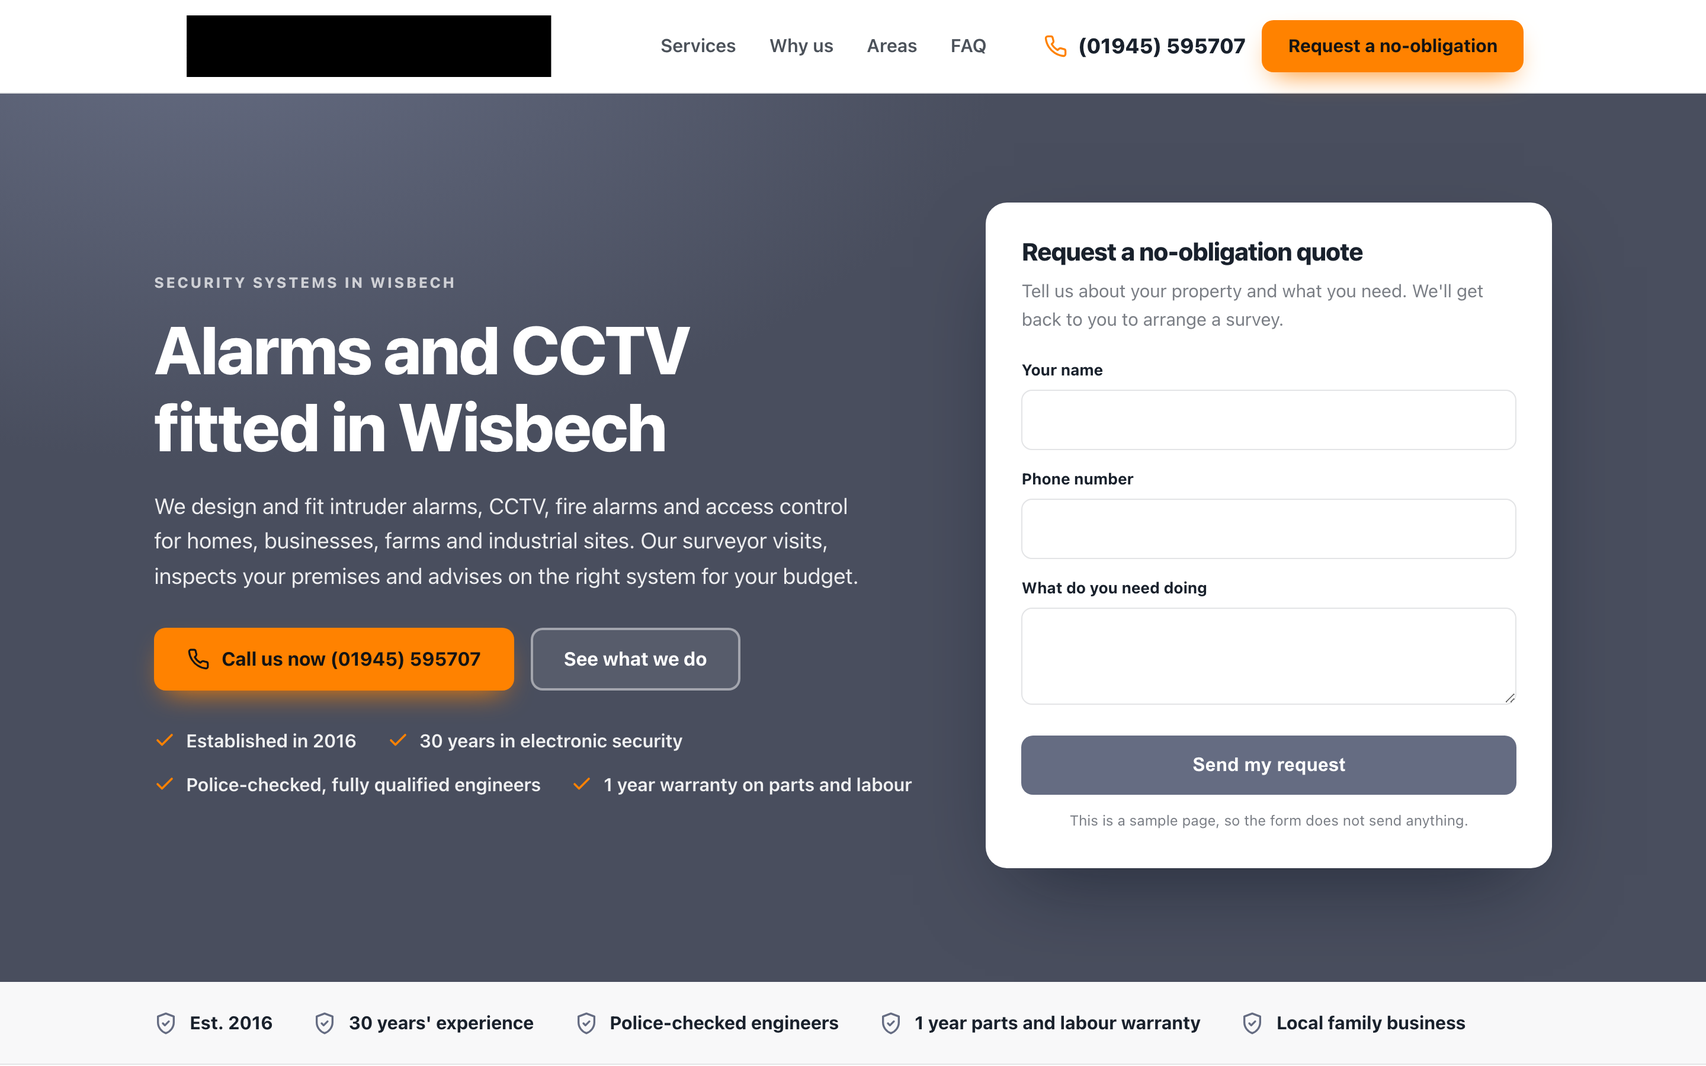
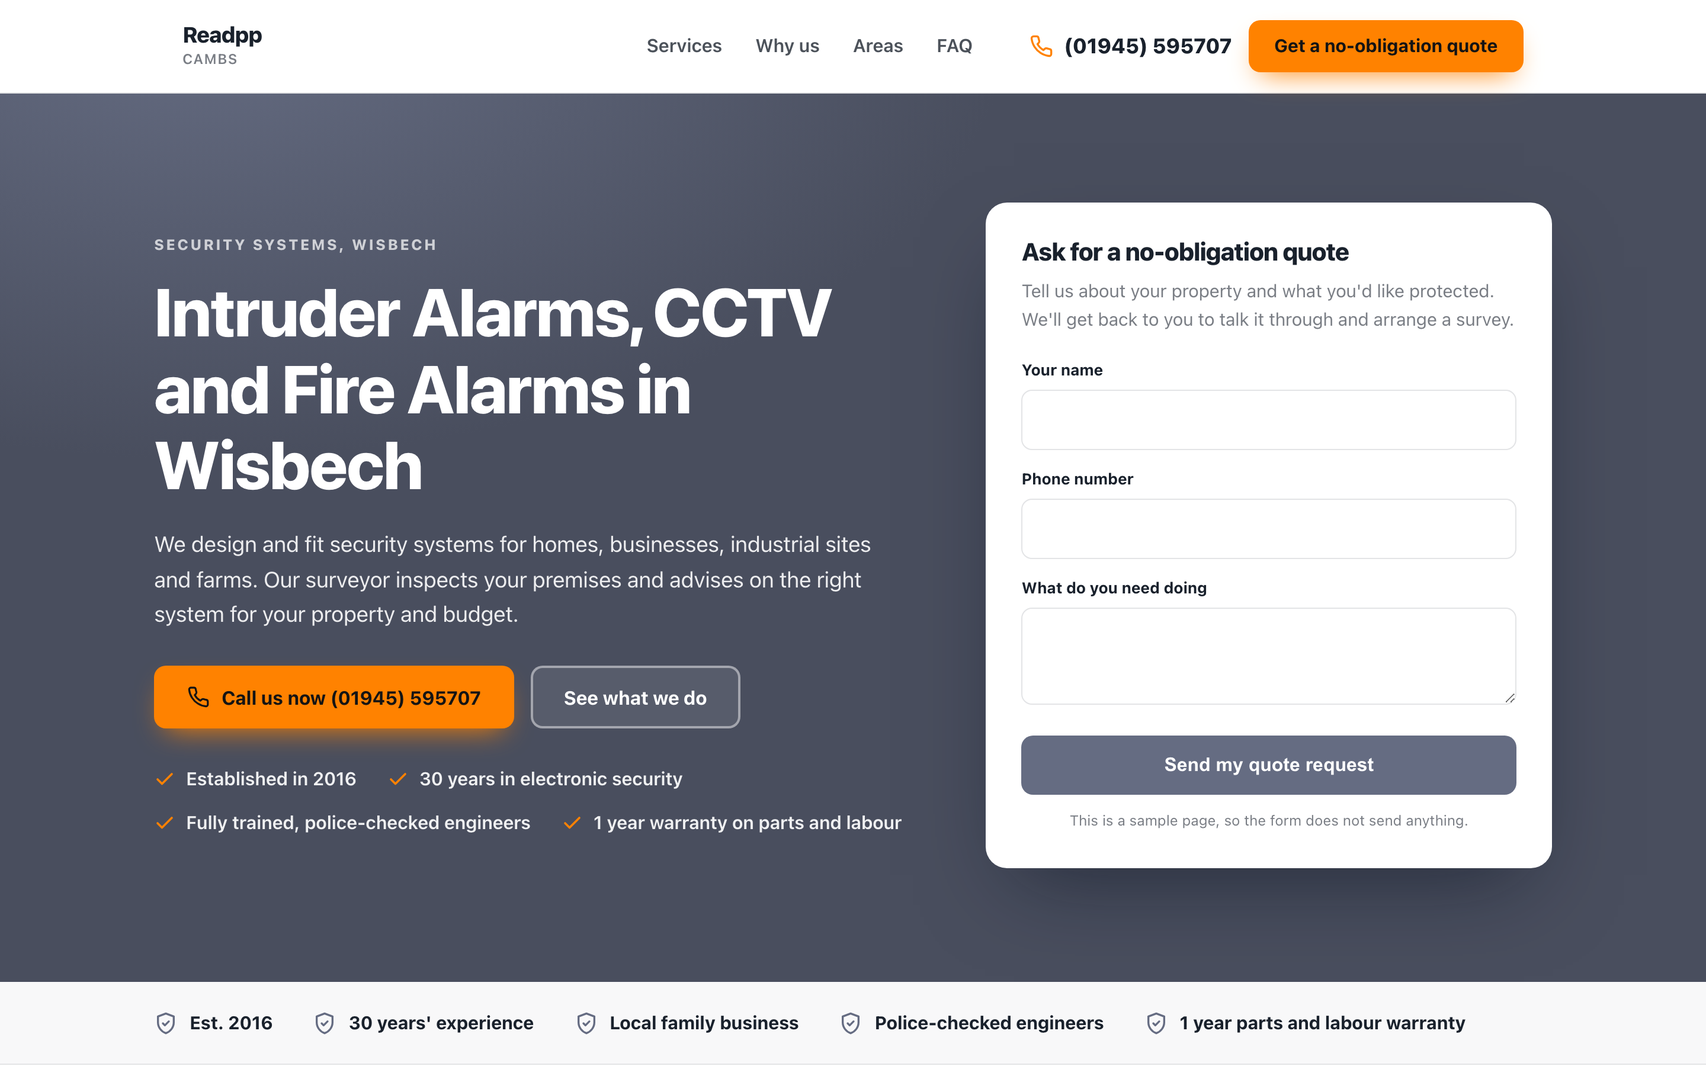
One page sample for Readpp

diff --git a/docs/7d1f97f49b/index.html b/docs/7d1f97f49b/index.html
@@ -4,14 +4,14 @@
 <meta charset="utf-8">
 <meta name="viewport" content="width=device-width, initial-scale=1">
 <meta name="robots" content="noindex,nofollow">
-<meta name="aso-build" content="ba05bd9cdd72">
-<title>Security Alarms &amp; CCTV Wisbech | Read Premises Protection</title>
-<meta name="description" content="Intruder alarms, CCTV, fire alarms and access control in Wisbech. Police-checked engineers and a no-obligation survey and quote.">
+<meta name="aso-build" content="3659cd5758ca">
+<title>Security Alarms &amp; CCTV in Wisbech | Read Premises Protection</title>
+<meta name="description" content="Intruder alarms, CCTV, access control and fire alarms fitted in Wisbech and East Anglia. Police-checked engineers and a 1 year parts and labour warranty.">
 <link rel="canonical" href="https://markygff.github.io/aso-mockups/7d1f97f49b/">
 <meta property="og:type" content="website">
 <meta property="og:site_name" content="Readpp">
-<meta property="og:title" content="Security Alarms &amp; CCTV Wisbech | Read Premises Protection">
-<meta property="og:description" content="Intruder alarms, CCTV, fire alarms and access control in Wisbech. Police-checked engineers and a no-obligation survey and quote.">
+<meta property="og:title" content="Security Alarms &amp; CCTV in Wisbech | Read Premises Protection">
+<meta property="og:description" content="Intruder alarms, CCTV, access control and fire alarms fitted in Wisbech and East Anglia. Police-checked engineers and a 1 year parts and labour warranty.">
 <meta property="og:url" content="https://markygff.github.io/aso-mockups/7d1f97f49b/">
 <meta name="twitter:card" content="summary_large_image">
 <style>
@@ -268,7 +268,10 @@ p{margin:0}
 <header class="header">
   <div class="wrap header-in">
     <div class="brand">
-<img src="img/logo.png" alt="Readpp logo">    </div>
+      <div>
+        <div class="brand-name">Readpp</div>
+<div class="brand-sub">Cambs</div>      </div>
+    </div>
     <nav class="nav">
       <a href="#services">Services</a>
       <a href="#why">Why us</a>
@@ -278,7 +281,7 @@ p{margin:0}
       <a class="tel" href="tel:+441945595707">
         <svg viewBox="0 0 24 24" fill="none" stroke="currentColor" stroke-width="2" stroke-linecap="round" stroke-linejoin="round" aria-hidden="true"><path d="M22 16.9v3a2 2 0 0 1-2.2 2 19.8 19.8 0 0 1-8.6-3.1 19.5 19.5 0 0 1-6-6 19.8 19.8 0 0 1-3.1-8.7A2 2 0 0 1 4.1 2h3a2 2 0 0 1 2 1.7c.1 1 .4 1.9.7 2.8a2 2 0 0 1-.5 2.1L8.1 9.9a16 16 0 0 0 6 6l1.3-1.2a2 2 0 0 1 2.1-.5c.9.3 1.8.6 2.8.7a2 2 0 0 1 1.7 2z"/></svg><span>(01945) 595707</span>
       </a>
-      <a class="btn btn-accent" href="#quote">Request a no-obligation</a>
+      <a class="btn btn-accent" href="#quote">Get a no-obligation quote</a>
     </div>
   </div>
 </header>
@@ -287,19 +290,19 @@ p{margin:0}
   <div class="hero-plain"></div>
   <div class="wrap hero-in">
     <div>
-      <p class="eyebrow">Security systems in Wisbech</p>
-      <h1>Alarms and CCTV fitted in Wisbech</h1>
-      <p class="hero-sub">We design and fit intruder alarms, CCTV, fire alarms and access control for homes, businesses, farms and industrial sites. Our surveyor visits, inspects your premises and advises on the right system for your budget.</p>
+      <p class="eyebrow">Security systems, Wisbech</p>
+      <h1>Intruder Alarms, CCTV and Fire Alarms in Wisbech</h1>
+      <p class="hero-sub">We design and fit security systems for homes, businesses, industrial sites and farms. Our surveyor inspects your premises and advises on the right system for your property and budget.</p>
       <div class="hero-actions">
         <a class="btn btn-accent" href="tel:+441945595707"><svg viewBox="0 0 24 24" fill="none" stroke="currentColor" stroke-width="2" stroke-linecap="round" stroke-linejoin="round" aria-hidden="true"><path d="M22 16.9v3a2 2 0 0 1-2.2 2 19.8 19.8 0 0 1-8.6-3.1 19.5 19.5 0 0 1-6-6 19.8 19.8 0 0 1-3.1-8.7A2 2 0 0 1 4.1 2h3a2 2 0 0 1 2 1.7c.1 1 .4 1.9.7 2.8a2 2 0 0 1-.5 2.1L8.1 9.9a16 16 0 0 0 6 6l1.3-1.2a2 2 0 0 1 2.1-.5c.9.3 1.8.6 2.8.7a2 2 0 0 1 1.7 2z"/></svg>Call us now (01945) 595707</a>
         <a class="btn btn-ghost" href="#services">See what we do</a>
       </div>
       <ul class="hero-bullets">
-<li><svg viewBox="0 0 24 24" fill="none" stroke="currentColor" stroke-width="2.4" stroke-linecap="round" stroke-linejoin="round" aria-hidden="true"><path d="M20 6 9 17l-5-5"/></svg><span>Established in 2016</span></li><li><svg viewBox="0 0 24 24" fill="none" stroke="currentColor" stroke-width="2.4" stroke-linecap="round" stroke-linejoin="round" aria-hidden="true"><path d="M20 6 9 17l-5-5"/></svg><span>30 years in electronic security</span></li><li><svg viewBox="0 0 24 24" fill="none" stroke="currentColor" stroke-width="2.4" stroke-linecap="round" stroke-linejoin="round" aria-hidden="true"><path d="M20 6 9 17l-5-5"/></svg><span>Police-checked, fully qualified engineers</span></li><li><svg viewBox="0 0 24 24" fill="none" stroke="currentColor" stroke-width="2.4" stroke-linecap="round" stroke-linejoin="round" aria-hidden="true"><path d="M20 6 9 17l-5-5"/></svg><span>1 year warranty on parts and labour</span></li>      </ul>
+<li><svg viewBox="0 0 24 24" fill="none" stroke="currentColor" stroke-width="2.4" stroke-linecap="round" stroke-linejoin="round" aria-hidden="true"><path d="M20 6 9 17l-5-5"/></svg><span>Established in 2016</span></li><li><svg viewBox="0 0 24 24" fill="none" stroke="currentColor" stroke-width="2.4" stroke-linecap="round" stroke-linejoin="round" aria-hidden="true"><path d="M20 6 9 17l-5-5"/></svg><span>30 years in electronic security</span></li><li><svg viewBox="0 0 24 24" fill="none" stroke="currentColor" stroke-width="2.4" stroke-linecap="round" stroke-linejoin="round" aria-hidden="true"><path d="M20 6 9 17l-5-5"/></svg><span>Fully trained, police-checked engineers</span></li><li><svg viewBox="0 0 24 24" fill="none" stroke="currentColor" stroke-width="2.4" stroke-linecap="round" stroke-linejoin="round" aria-hidden="true"><path d="M20 6 9 17l-5-5"/></svg><span>1 year warranty on parts and labour</span></li>      </ul>
     </div>
     <div class="quote-card" id="quote">
-      <h3>Request a no-obligation quote</h3>
-      <p class="lead">Tell us about your property and what you need. We&#39;ll get back to you to arrange a survey.</p>
+      <h3>Ask for a no-obligation quote</h3>
+      <p class="lead">Tell us about your property and what you&#39;d like protected. We&#39;ll get back to you to talk it through and arrange a survey.</p>
       <form action="#" onsubmit="return false" novalidate>
         <div class="field"><label for="h-name">Your name</label>
           <input id="h-name" name="name" type="text" autocomplete="name"></div>
@@ -307,7 +310,7 @@ p{margin:0}
           <input id="h-phone" name="phone" type="tel" autocomplete="tel"></div>
         <div class="field"><label for="h-job">What do you need doing</label>
           <textarea id="h-job" name="job"></textarea></div>
-        <button class="btn btn-primary" type="button">Send my request</button>
+        <button class="btn btn-primary" type="button">Send my quote request</button>
       </form>
       <p class="sample-note">This is a sample page, so the form does not send anything.</p>
     </div>
@@ -318,9 +321,9 @@ p{margin:0}
   <div class="wrap trust-in">
     <div class="trust-item"><svg viewBox="0 0 24 24" fill="none" stroke="currentColor" stroke-width="2" stroke-linecap="round" stroke-linejoin="round" aria-hidden="true"><path d="M12 2 4 5v6c0 5 3.4 9.4 8 11 4.6-1.6 8-6 8-11V5z"/><path d="m9 12 2 2 4-4"/></svg><span>Est. 2016</span></div>
     <div class="trust-item"><svg viewBox="0 0 24 24" fill="none" stroke="currentColor" stroke-width="2" stroke-linecap="round" stroke-linejoin="round" aria-hidden="true"><path d="M12 2 4 5v6c0 5 3.4 9.4 8 11 4.6-1.6 8-6 8-11V5z"/><path d="m9 12 2 2 4-4"/></svg><span>30 years&#39; experience</span></div>
+    <div class="trust-item"><svg viewBox="0 0 24 24" fill="none" stroke="currentColor" stroke-width="2" stroke-linecap="round" stroke-linejoin="round" aria-hidden="true"><path d="M12 2 4 5v6c0 5 3.4 9.4 8 11 4.6-1.6 8-6 8-11V5z"/><path d="m9 12 2 2 4-4"/></svg><span>Local family business</span></div>
     <div class="trust-item"><svg viewBox="0 0 24 24" fill="none" stroke="currentColor" stroke-width="2" stroke-linecap="round" stroke-linejoin="round" aria-hidden="true"><path d="M12 2 4 5v6c0 5 3.4 9.4 8 11 4.6-1.6 8-6 8-11V5z"/><path d="m9 12 2 2 4-4"/></svg><span>Police-checked engineers</span></div>
     <div class="trust-item"><svg viewBox="0 0 24 24" fill="none" stroke="currentColor" stroke-width="2" stroke-linecap="round" stroke-linejoin="round" aria-hidden="true"><path d="M12 2 4 5v6c0 5 3.4 9.4 8 11 4.6-1.6 8-6 8-11V5z"/><path d="m9 12 2 2 4-4"/></svg><span>1 year parts and labour warranty</span></div>
-    <div class="trust-item"><svg viewBox="0 0 24 24" fill="none" stroke="currentColor" stroke-width="2" stroke-linecap="round" stroke-linejoin="round" aria-hidden="true"><path d="M12 2 4 5v6c0 5 3.4 9.4 8 11 4.6-1.6 8-6 8-11V5z"/><path d="m9 12 2 2 4-4"/></svg><span>Local family business</span></div>
   </div>
 </div>
 
@@ -328,29 +331,29 @@ p{margin:0}
   <div class="wrap">
     <div class="section-head">
       <p class="eyebrow">What we do</p>
-      <h2>Our security services</h2>
-      <p>We protect domestic, commercial, industrial and agricultural premises. All work is carried out by fully qualified engineers.</p>
+      <h2>Security systems we fit in Wisbech</h2>
+      <p>We protect domestic, commercial, industrial and agricultural premises. Every system is matched to your property after a full inspection.</p>
     </div>
     <div class="grid grid-3">
       <article class="card">
         <div class="icon"><svg viewBox="0 0 24 24" fill="none" stroke="currentColor" stroke-width="2" stroke-linecap="round" stroke-linejoin="round" aria-hidden="true"><path d="M14.7 6.3a4 4 0 0 0 5.3 5.3l-8 8a3 3 0 0 1-4.2-4.2z"/><path d="m14.7 6.3 3-3"/></svg></div>
         <h3>Intruder Alarms</h3>
-        <p>Wired, wireless or hybrid systems. Choose app notifications or an alarm receiving centre link with police response, so you know when someone is on your property.</p>
+        <p>Wired, wireless or hybrid alarms. Get app alerts, or connect to an alarm receiving centre with a police response.</p>
       </article>
       <article class="card">
         <div class="icon"><svg viewBox="0 0 24 24" fill="none" stroke="currentColor" stroke-width="2" stroke-linecap="round" stroke-linejoin="round" aria-hidden="true"><path d="M13 2 4 14h7l-1 8 9-12h-7z"/></svg></div>
         <h3>CCTV Systems</h3>
-        <p>Camera systems with real-time app notifications and motion detection analytics, so you only get the alerts that matter, at home or away.</p>
+        <p>Cameras with real-time app notifications and motion detection analytics, so you&#39;re only alerted to activity that matters.</p>
       </article>
       <article class="card">
         <div class="icon"><svg viewBox="0 0 24 24" fill="none" stroke="currentColor" stroke-width="2" stroke-linecap="round" stroke-linejoin="round" aria-hidden="true"><path d="M3 10.5 12 3l9 7.5"/><path d="M5 9.5V21h14V9.5"/><path d="M10 21v-6h4v6"/></svg></div>
         <h3>Access Control Systems</h3>
-        <p>Control who can get into your premises. Our surveyor will advise on the right setup for your building and your budget.</p>
+        <p>Access control for your premises, specified after our surveyor has inspected the site and talked through what you need.</p>
       </article>
       <article class="card">
         <div class="icon"><svg viewBox="0 0 24 24" fill="none" stroke="currentColor" stroke-width="2" stroke-linecap="round" stroke-linejoin="round" aria-hidden="true"><path d="M4 20 15 9"/><path d="m14 4 6 6-3 3-6-6z"/><path d="m3 15 6 6"/></svg></div>
         <h3>Fire Alarms</h3>
-        <p>Wired and wireless fire alarms for homes, commercial and industrial spaces, with early detection and app notifications through our alarm receiving centre.</p>
+        <p>Wired and wireless fire alarms for early detection, with real-time app notifications through our alarm receiving centre.</p>
       </article>
     </div>
   </div>
@@ -360,35 +363,35 @@ p{margin:0}
   <div class="wrap">
     <div class="section-head">
       <p class="eyebrow">Why us</p>
-      <h2>Why people choose Read Premises Protection</h2>
+      <h2>Why people in Wisbech choose us</h2>
     </div>
     <div class="grid grid-2">
       <div class="why-item">
         <div class="why-badge">1</div>
         <div>
-          <h3>Years of experience</h3>
-          <p>Established in 2016, we bring 30 years of expertise in electronic security systems to every job.</p>
+          <h3>30 years of experience</h3>
+          <p>We&#39;ve been established since 2016 and bring 30 years of expertise in electronic security systems.</p>
         </div>
       </div>
       <div class="why-item">
         <div class="why-badge">2</div>
         <div>
-          <h3>Checked engineers</h3>
-          <p>Our engineers are fully trained to the highest standards and have passed strict police checks.</p>
+          <h3>Police-checked engineers</h3>
+          <p>Our engineers are fully trained and have undergone strict police checks, so you know who&#39;s on your property.</p>
         </div>
       </div>
       <div class="why-item">
         <div class="why-badge">3</div>
         <div>
-          <h3>Work under warranty</h3>
-          <p>Every job we carry out comes with a 1 year warranty on all parts and labour.</p>
+          <h3>Out at short notice</h3>
+          <p>We can often have an engineer on site at short notice. For businesses, we fit around your work to keep disruption down.</p>
         </div>
       </div>
       <div class="why-item">
         <div class="why-badge">4</div>
         <div>
-          <h3>Little disruption</h3>
-          <p>We work around your business to keep disruption low, and we can often get an engineer on-site at short notice.</p>
+          <h3>Work you can rely on</h3>
+          <p>Every job we carry out comes with a 1 year warranty on all parts and labour.</p>
         </div>
       </div>
     </div>
@@ -400,8 +403,8 @@ p{margin:0}
   <div class="wrap">
     <div class="section-head">
       <p class="eyebrow">Where we work</p>
-      <h2>Security systems in Wisbech and East Anglia</h2>
-      <p>We&#39;re based in Wisbech, on the borders of Cambridgeshire, Norfolk and Lincolnshire. We serve all areas of East Anglia.</p>
+      <h2>Security systems in Wisbech and across East Anglia</h2>
+      <p>We&#39;re based in Wisbech, on the borders of Cambridgeshire, Norfolk and Lincolnshire. That puts us in the right spot to serve all areas of East Anglia.</p>
     </div>
     <ul class="area-list">
 <li>Wisbech</li>    </ul>
@@ -412,27 +415,27 @@ p{margin:0}
   <div class="wrap" style="max-width:840px">
     <div class="section-head">
       <p class="eyebrow">Questions</p>
-      <h2>Security system questions</h2>
+      <h2>Alarm and CCTV questions answered</h2>
     </div>
     <div class="faq-item">
-      <h3><span>Q.</span>How quickly can a security engineer come out in Wisbech?</h3>
-      <p>We can often have an engineer on-site at short notice to give advice on all aspects of security. Send us your details and we&#39;ll arrange a visit.</p>
+      <h3><span>Q.</span>How quickly can you get a security engineer out in Wisbech?</h3>
+      <p>We can often have an engineer on site at short notice to give advice on any aspect of security. For businesses, we&#39;ll work around your operations to keep disruption to a minimum.</p>
     </div>
     <div class="faq-item">
-      <h3><span>Q.</span>What areas do you cover for alarms and CCTV?</h3>
+      <h3><span>Q.</span>Which areas do you cover for alarms and CCTV?</h3>
       <p>We&#39;re based in Wisbech, on the borders of Cambridgeshire, Norfolk and Lincolnshire, and we serve all areas of East Anglia.</p>
     </div>
     <div class="faq-item">
-      <h3><span>Q.</span>Do you give quotes for alarms and CCTV?</h3>
-      <p>Yes. We offer no-obligation quotes. Our surveyor visits, carries out a full inspection and advises on the best option for your property and budget.</p>
+      <h3><span>Q.</span>Do you give no-obligation quotes for alarms and CCTV?</h3>
+      <p>Yes. Tell us what you need using the form on this page and we&#39;ll arrange a no-obligation quote.</p>
     </div>
     <div class="faq-item">
       <h3><span>Q.</span>What happens on the first visit?</h3>
-      <p>Our surveyor inspects your premises in full, talks through your security needs and recommends the system that suits your property and budget. You then decide whether to go ahead.</p>
+      <p>Our surveyor visits your premises and carries out a full inspection. They&#39;ll then advise on the best system to suit your property and your budget.</p>
     </div>
     <div class="faq-item">
-      <h3><span>Q.</span>Should I choose a wired or wireless burglar alarm?</h3>
-      <p>We fit both, as well as hybrid systems that give you the benefits of each. Our surveyor will look at your property and recommend the right type for you.</p>
+      <h3><span>Q.</span>Should I get a wired or wireless burglar alarm?</h3>
+      <p>We fit wired, wireless and hybrid intruder alarms. A hybrid system gives you the benefits of both. Our surveyor will recommend the right one once they&#39;ve inspected your property.</p>
     </div>
   </div>
 </section>
@@ -441,8 +444,8 @@ p{margin:0}
   <div class="wrap contact-in">
     <div>
       <p class="eyebrow">Get in touch</p>
-      <h2 style="font-size:clamp(1.75rem,3.2vw,2.4rem);margin-bottom:14px">Request a no-obligation quote</h2>
-      <p style="color:var(--muted);font-size:1.06rem">Tell us about your property and what you need. We&#39;ll get back to you to arrange a survey.</p>
+      <h2 style="font-size:clamp(1.75rem,3.2vw,2.4rem);margin-bottom:14px">Ask for a no-obligation quote</h2>
+      <p style="color:var(--muted);font-size:1.06rem">Tell us about your property and what you&#39;d like protected. We&#39;ll get back to you to talk it through and arrange a survey.</p>
       <div class="contact-facts">
         <div class="fact-row"><svg viewBox="0 0 24 24" fill="none" stroke="currentColor" stroke-width="2" stroke-linecap="round" stroke-linejoin="round" aria-hidden="true"><path d="M22 16.9v3a2 2 0 0 1-2.2 2 19.8 19.8 0 0 1-8.6-3.1 19.5 19.5 0 0 1-6-6 19.8 19.8 0 0 1-3.1-8.7A2 2 0 0 1 4.1 2h3a2 2 0 0 1 2 1.7c.1 1 .4 1.9.7 2.8a2 2 0 0 1-.5 2.1L8.1 9.9a16 16 0 0 0 6 6l1.3-1.2a2 2 0 0 1 2.1-.5c.9.3 1.8.6 2.8.7a2 2 0 0 1 1.7 2z"/></svg><div><strong>Phone</strong>
           <a href="tel:+441945595707">(01945) 595707</a></div></div>
@@ -467,7 +470,7 @@ p{margin:0}
         <div class="field"><label for="c-msg">Tell us about the job</label>
           <textarea id="c-msg" name="message"></textarea></div>
         <button class="btn btn-accent" type="button" style="width:100%;justify-content:center">
-          Send my request</button>
+          Send my quote request</button>
         <p class="sample-note">Sample page. Nothing is sent and nothing is stored.</p>
       </form>
     </div>
@@ -479,7 +482,7 @@ p{margin:0}
     <div class="footer-in">
       <div>
         <div class="footer-brand">Readpp</div>
-        <p>Intruder alarms, CCTV, fire alarms and access control from Read Premises Protection in Wisbech.</p>
+        <p>Intruder alarms, CCTV, access control and fire alarms for homes and businesses across Wisbech and East Anglia.</p>
 <p style="margin-top:14px"><a href="tel:+441945595707">(01945) 595707</a></p>      </div>
       <div>
         <h4>Services</h4>
@@ -503,7 +506,7 @@ p{margin:0}
     "@type": "LocalBusiness",
     "name": "Readpp",
     "url": "https://markygff.github.io/aso-mockups/7d1f97f49b/",
-    "description": "Intruder alarms, CCTV, fire alarms and access control in Wisbech. Police-checked engineers and a no-obligation survey and quote.",
+    "description": "Intruder alarms, CCTV, access control and fire alarms fitted in Wisbech and East Anglia. Police-checked engineers and a 1 year parts and labour warranty.",
     "telephone": "(01945) 595707",
     "address": {
       "@type": "PostalAddress",
@@ -556,15 +559,15 @@ p{margin:0}
     "mainEntity": [
       {
         "@type": "Question",
-        "name": "How quickly can a security engineer come out in Wisbech?",
+        "name": "How quickly can you get a security engineer out in Wisbech?",
         "acceptedAnswer": {
           "@type": "Answer",
-          "text": "We can often have an engineer on-site at short notice to give advice on all aspects of security. Send us your details and we'll arrange a visit."
+          "text": "We can often have an engineer on site at short notice to give advice on any aspect of security. For businesses, we'll work around your operations to keep disruption to a minimum."
         }
       },
       {
         "@type": "Question",
-        "name": "What areas do you cover for alarms and CCTV?",
+        "name": "Which areas do you cover for alarms and CCTV?",
         "acceptedAnswer": {
           "@type": "Answer",
           "text": "We're based in Wisbech, on the borders of Cambridgeshire, Norfolk and Lincolnshire, and we serve all areas of East Anglia."
@@ -572,10 +575,10 @@ p{margin:0}
       },
       {
         "@type": "Question",
-        "name": "Do you give quotes for alarms and CCTV?",
+        "name": "Do you give no-obligation quotes for alarms and CCTV?",
         "acceptedAnswer": {
           "@type": "Answer",
-          "text": "Yes. We offer no-obligation quotes. Our surveyor visits, carries out a full inspection and advises on the best option for your property and budget."
+          "text": "Yes. Tell us what you need using the form on this page and we'll arrange a no-obligation quote."
         }
       },
       {
@@ -583,15 +586,15 @@ p{margin:0}
         "name": "What happens on the first visit?",
         "acceptedAnswer": {
           "@type": "Answer",
-          "text": "Our surveyor inspects your premises in full, talks through your security needs and recommends the system that suits your property and budget. You then decide whether to go ahead."
+          "text": "Our surveyor visits your premises and carries out a full inspection. They'll then advise on the best system to suit your property and your budget."
         }
       },
       {
         "@type": "Question",
-        "name": "Should I choose a wired or wireless burglar alarm?",
+        "name": "Should I get a wired or wireless burglar alarm?",
         "acceptedAnswer": {
           "@type": "Answer",
-          "text": "We fit both, as well as hybrid systems that give you the benefits of each. Our surveyor will look at your property and recommend the right type for you."
+          "text": "We fit wired, wireless and hybrid intruder alarms. A hybrid system gives you the benefits of both. Our surveyor will recommend the right one once they've inspected your property."
         }
       }
     ]
